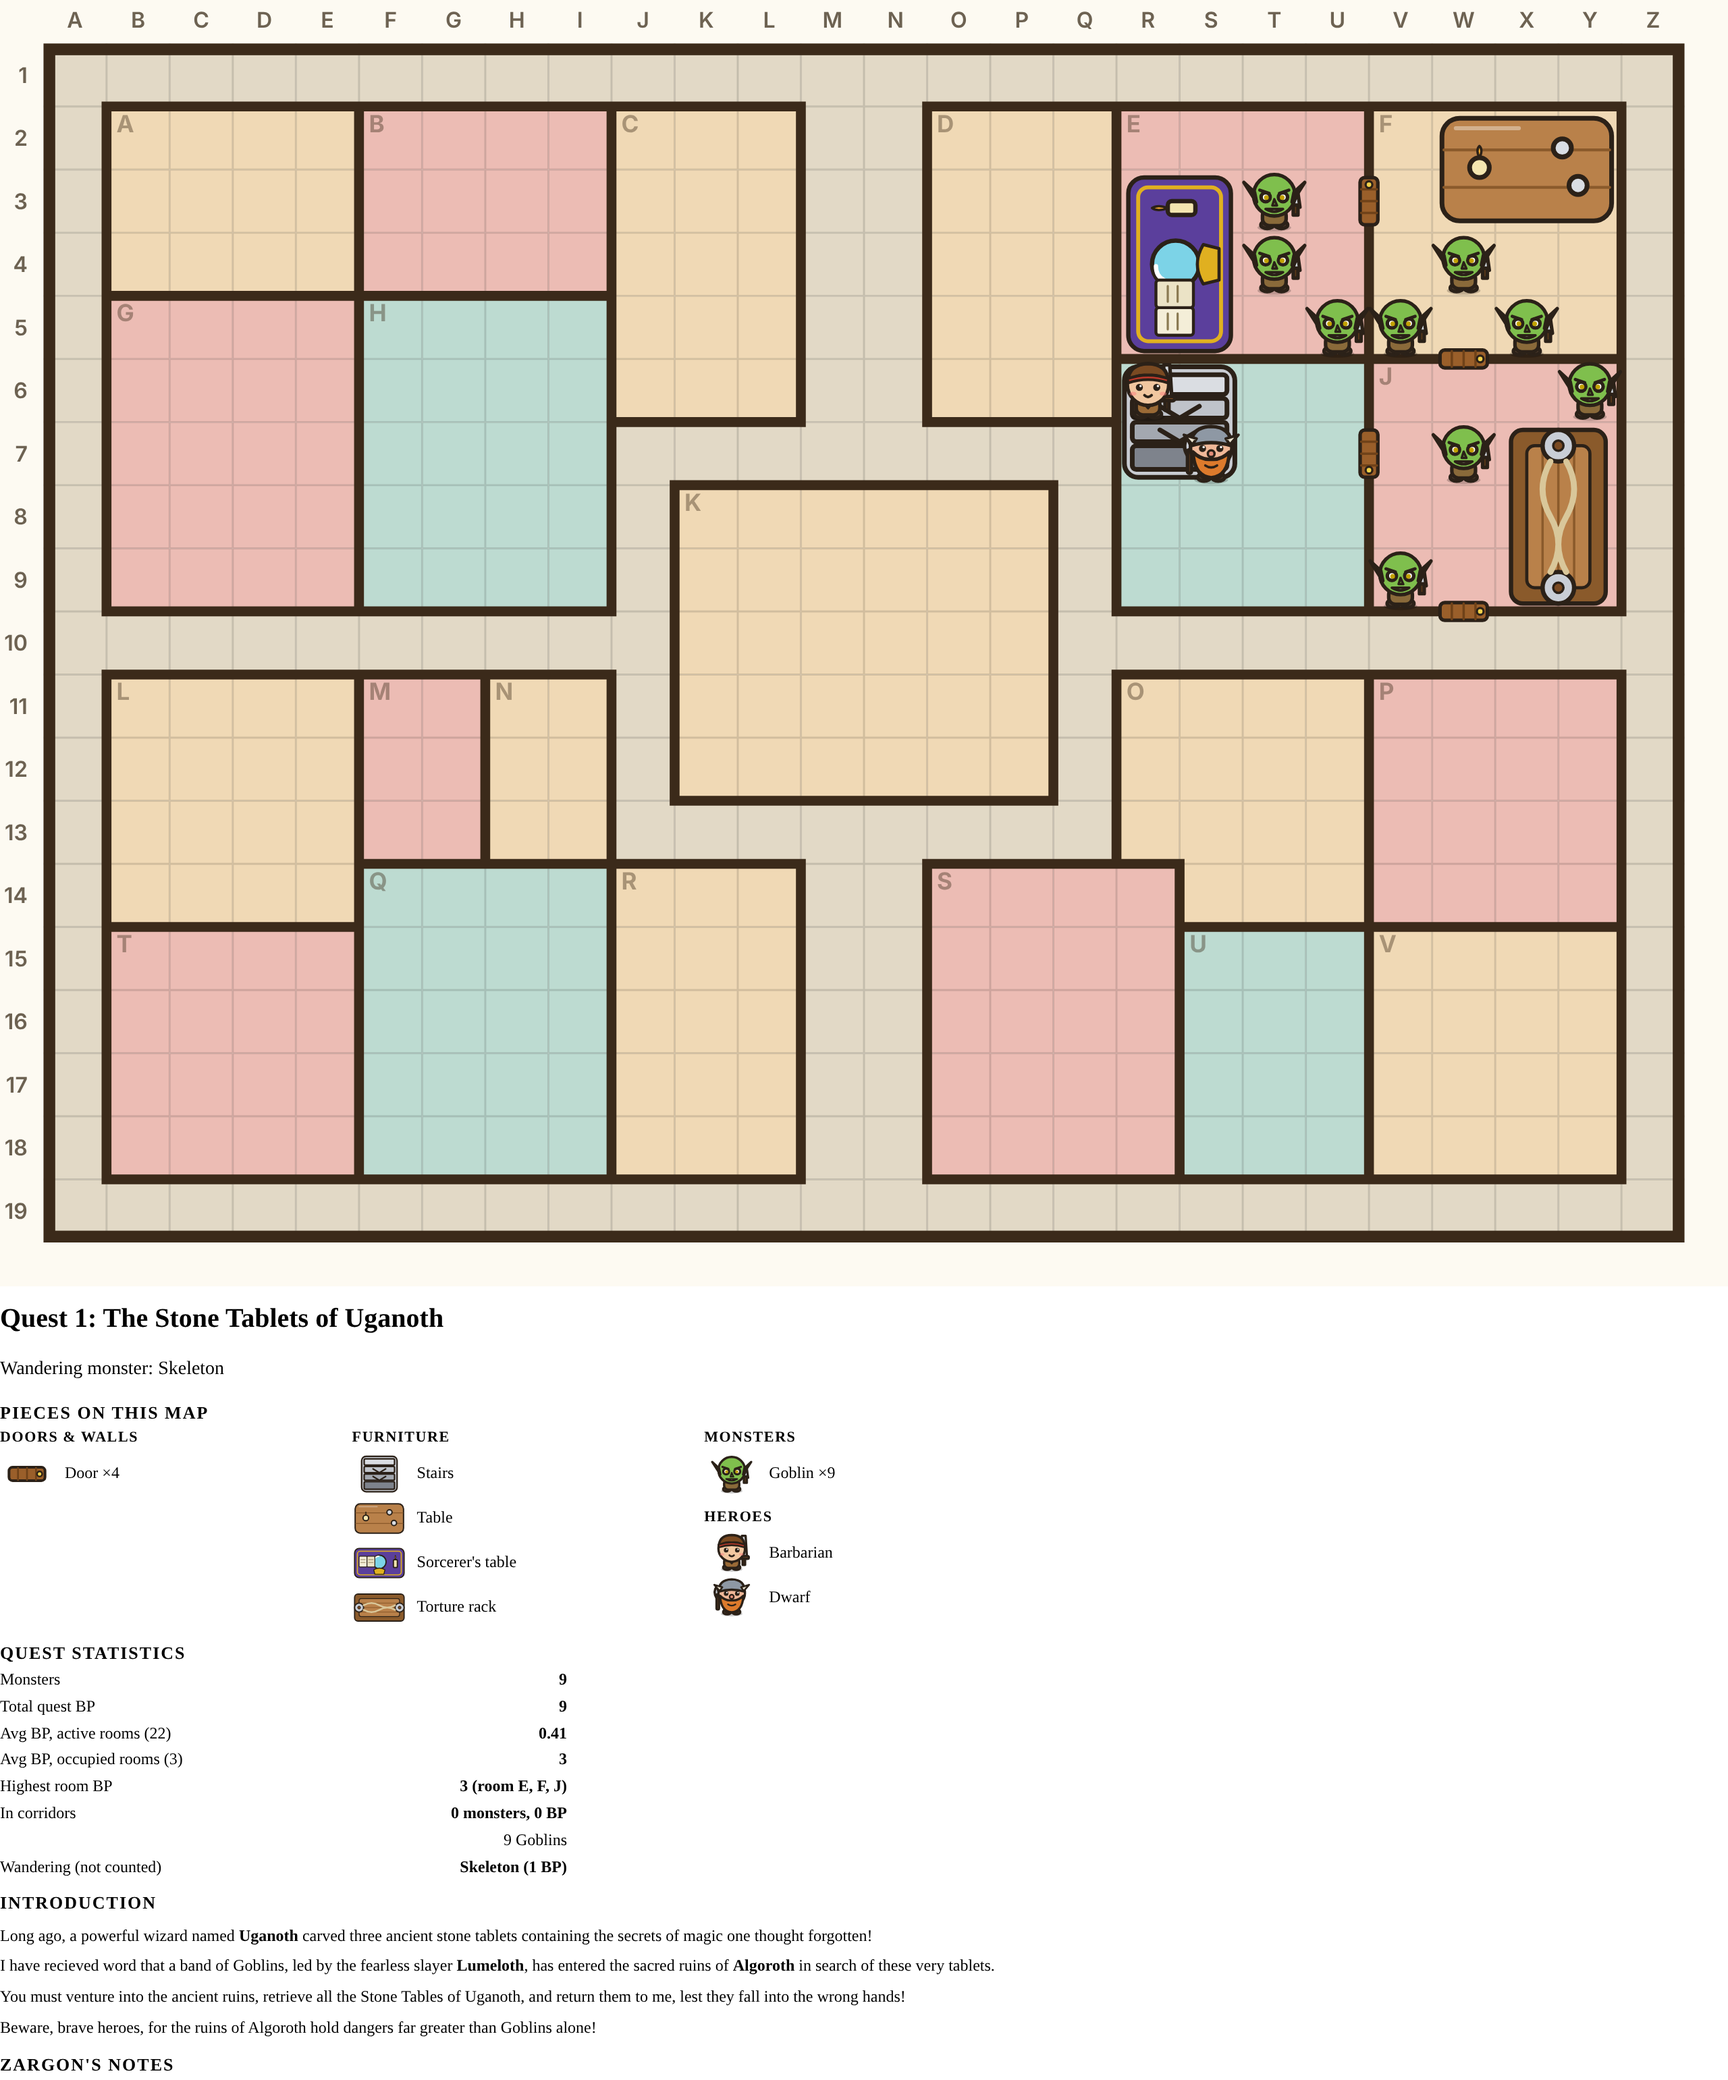
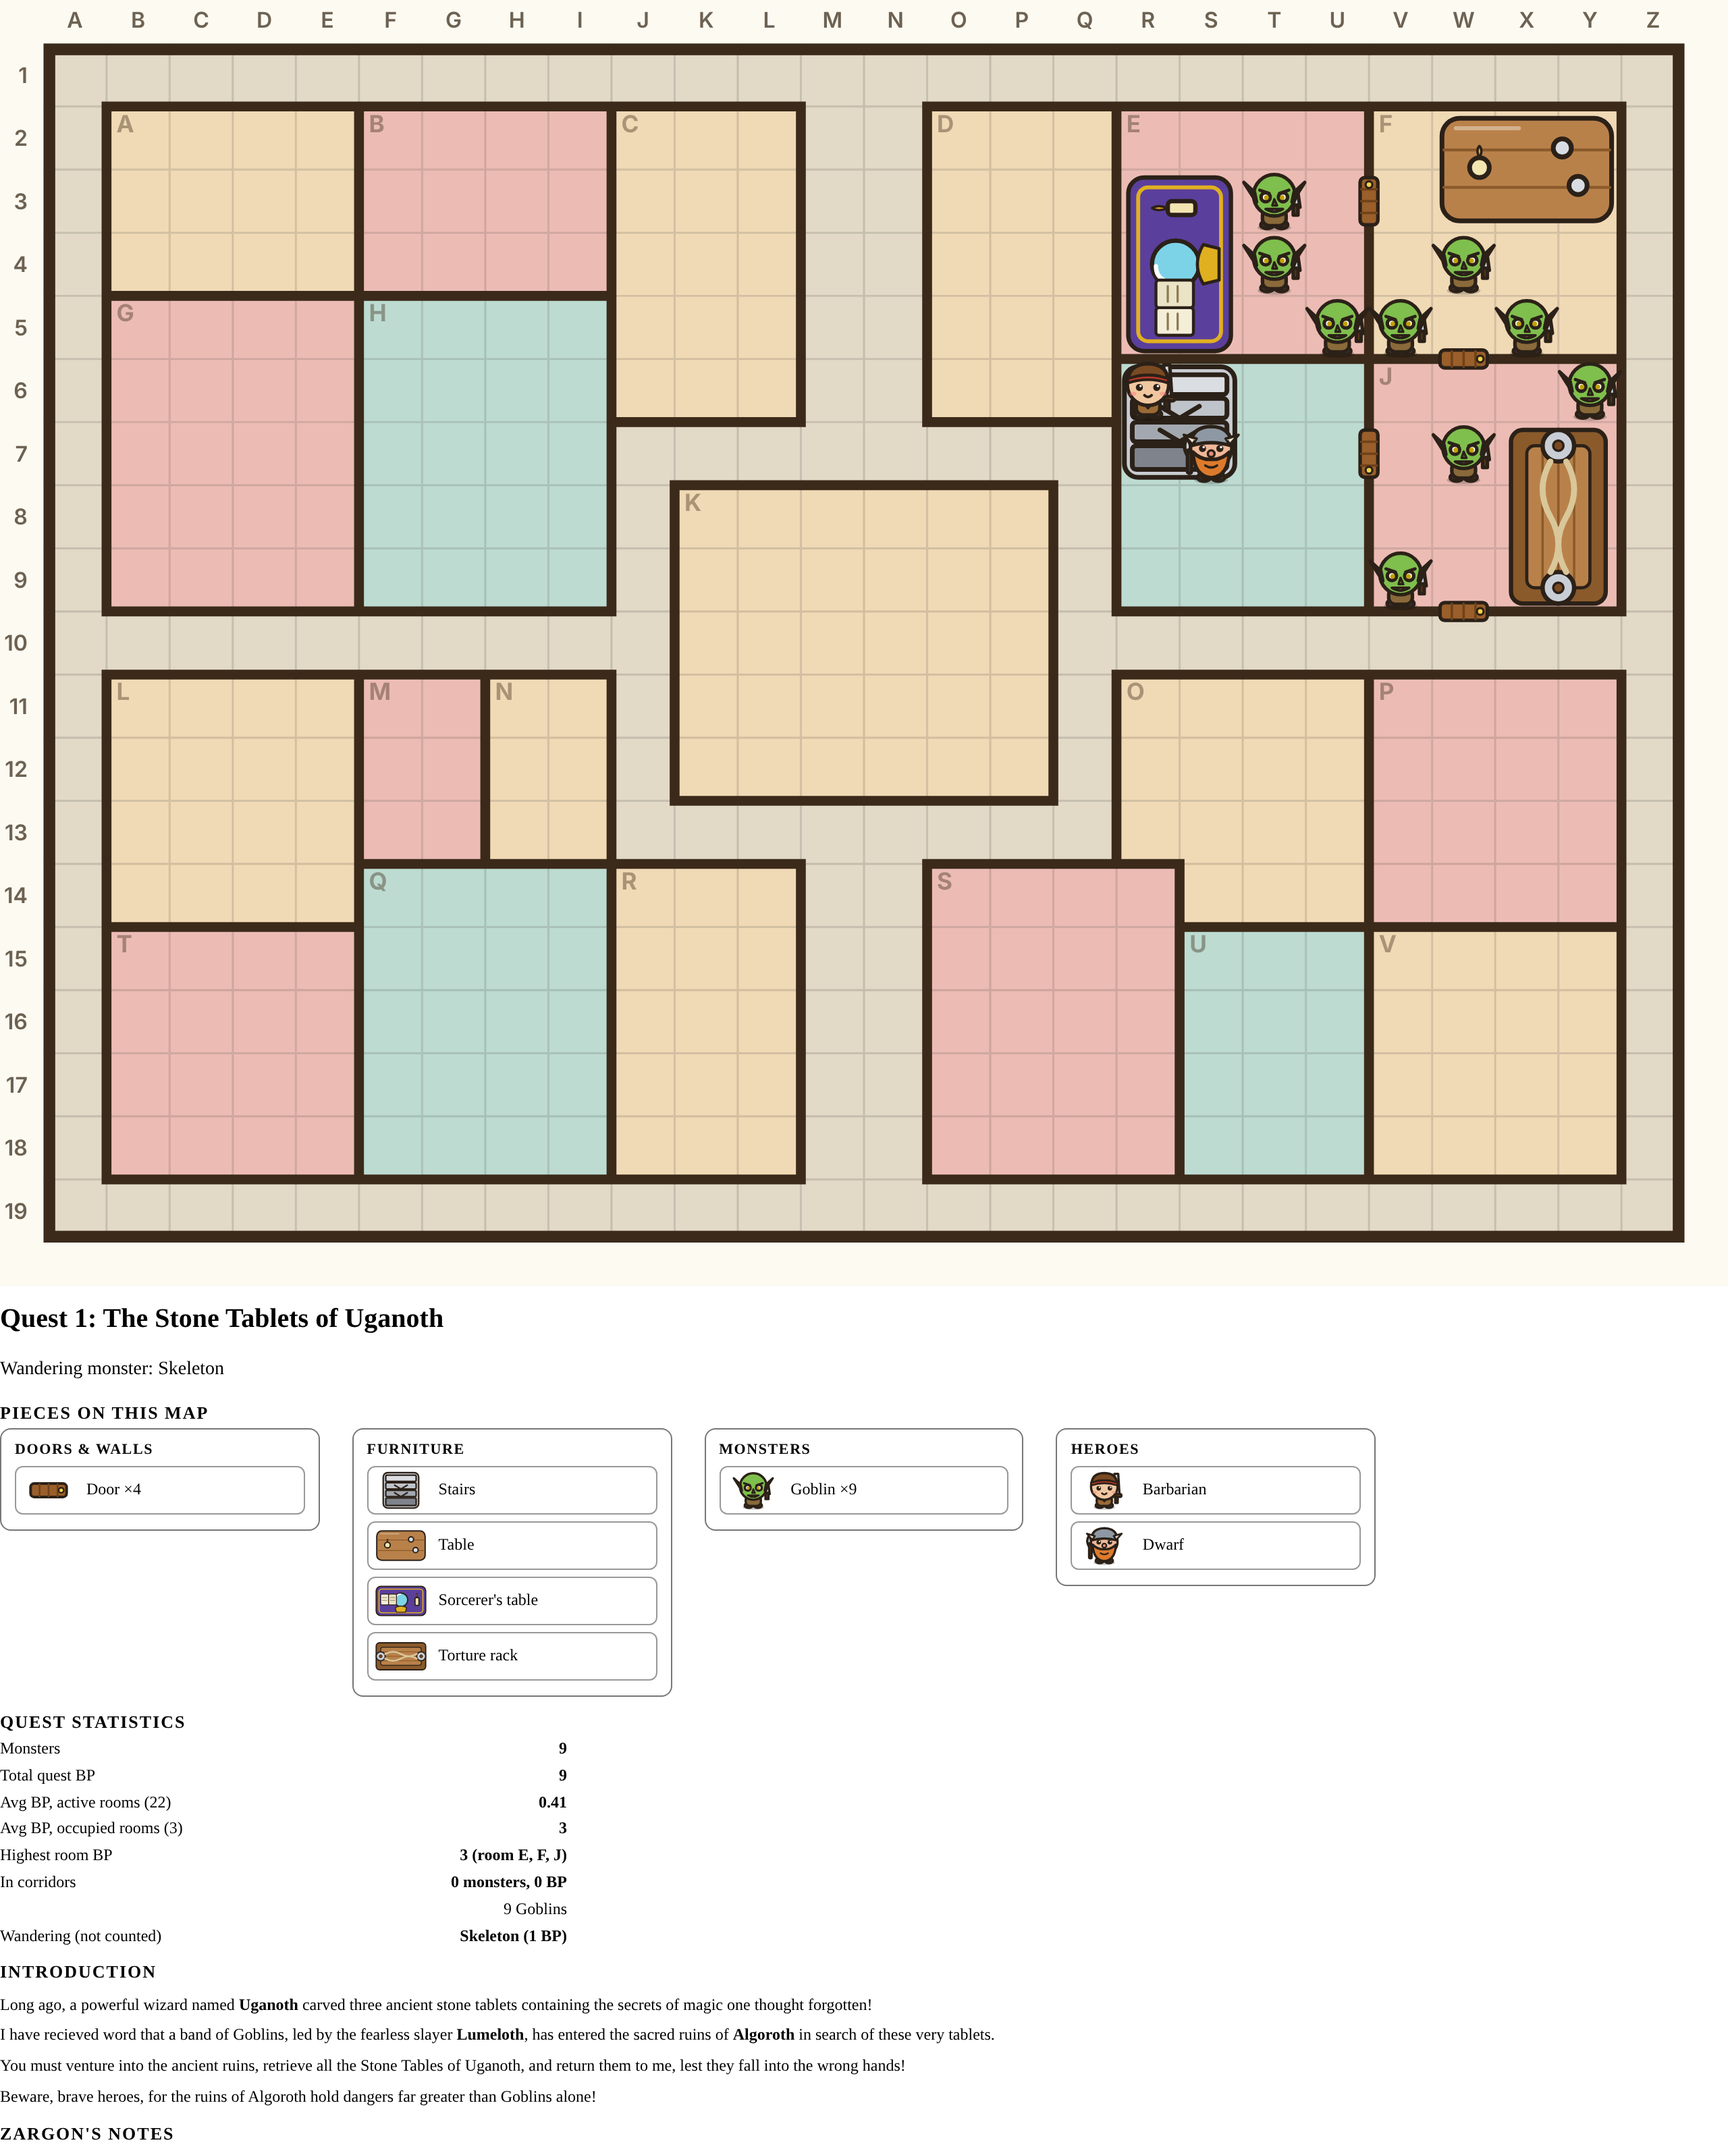
style: put borders around the groups and pieces in the map key
Give each group in the Pieces on this map key a bordered card and each piece
entry its own bordered row, so every icon, name and count reads as one unit.
Print uses plain white boxes with gray borders. Refresh the screenshots.

This work was substantially AI-generated with human review and
direction throughout.

Vibe-Coder: Vibe-Coder 1.z3r0 <243014891+vibecoder-1z3r0@users.noreply.github.com>

diff --git a/src/style.css b/src/style.css
@@ -120,10 +120,10 @@ input[type="text"] { width: 100%; }
 .sheet section.secret .preview { border-left-color: var(--danger); }
 .sheet .muted { margin: 0; }
 .piece-key { column-width: 210px; column-gap: 24px; font-size: 14px; }
-.piece-key .keygroup { break-inside: avoid; margin-bottom: 10px; }
+.piece-key .keygroup { break-inside: avoid; margin-bottom: 12px; padding: 8px 10px 6px; border: 1px solid var(--border); border-radius: 8px; background: var(--panel2); }
 .piece-key h4 { margin: 0 0 3px; font-size: 11px; text-transform: uppercase; letter-spacing: 0.8px; color: var(--muted); break-after: avoid; }
 .piece-key ul { list-style: none; margin: 0; padding: 0; }
-.piece-key li { display: flex; align-items: center; gap: 8px; margin: 3px 0; break-inside: avoid; }
+.piece-key li { display: flex; align-items: center; gap: 8px; margin: 0 0 5px; padding: 2px 8px 2px 4px; break-inside: avoid; border: 1px solid var(--border); border-radius: 6px; background: var(--panel); }
 .piece-key .keyicon { flex: none; width: 40px; height: 30px; display: flex; align-items: center; justify-content: center; }
 .piece-key .keyicon svg { width: 40px; height: 30px; overflow: visible; }
 .piece-key .keycount { color: var(--muted); }
@@ -184,6 +184,8 @@ kbd { background: var(--panel2); border: 1px solid var(--border); border-radius:
   #printsheet table, #printsheet th, #printsheet td { border: 1px solid #000; }
   #printsheet .stats { font-size: 12px; max-width: 420px; }
   #printsheet .piece-key { font-size: 12px; }
+  #printsheet .piece-key .keygroup { background: #fff; border-color: #777; }
+  #printsheet .piece-key li { background: #fff; border-color: #999; }
   #printsheet .piece-key h4 { color: #000; }
   #printsheet .piece-key .keycount { color: #000; }
   #printsheet .stats dt, #printsheet .stats dd { color: #000; }
